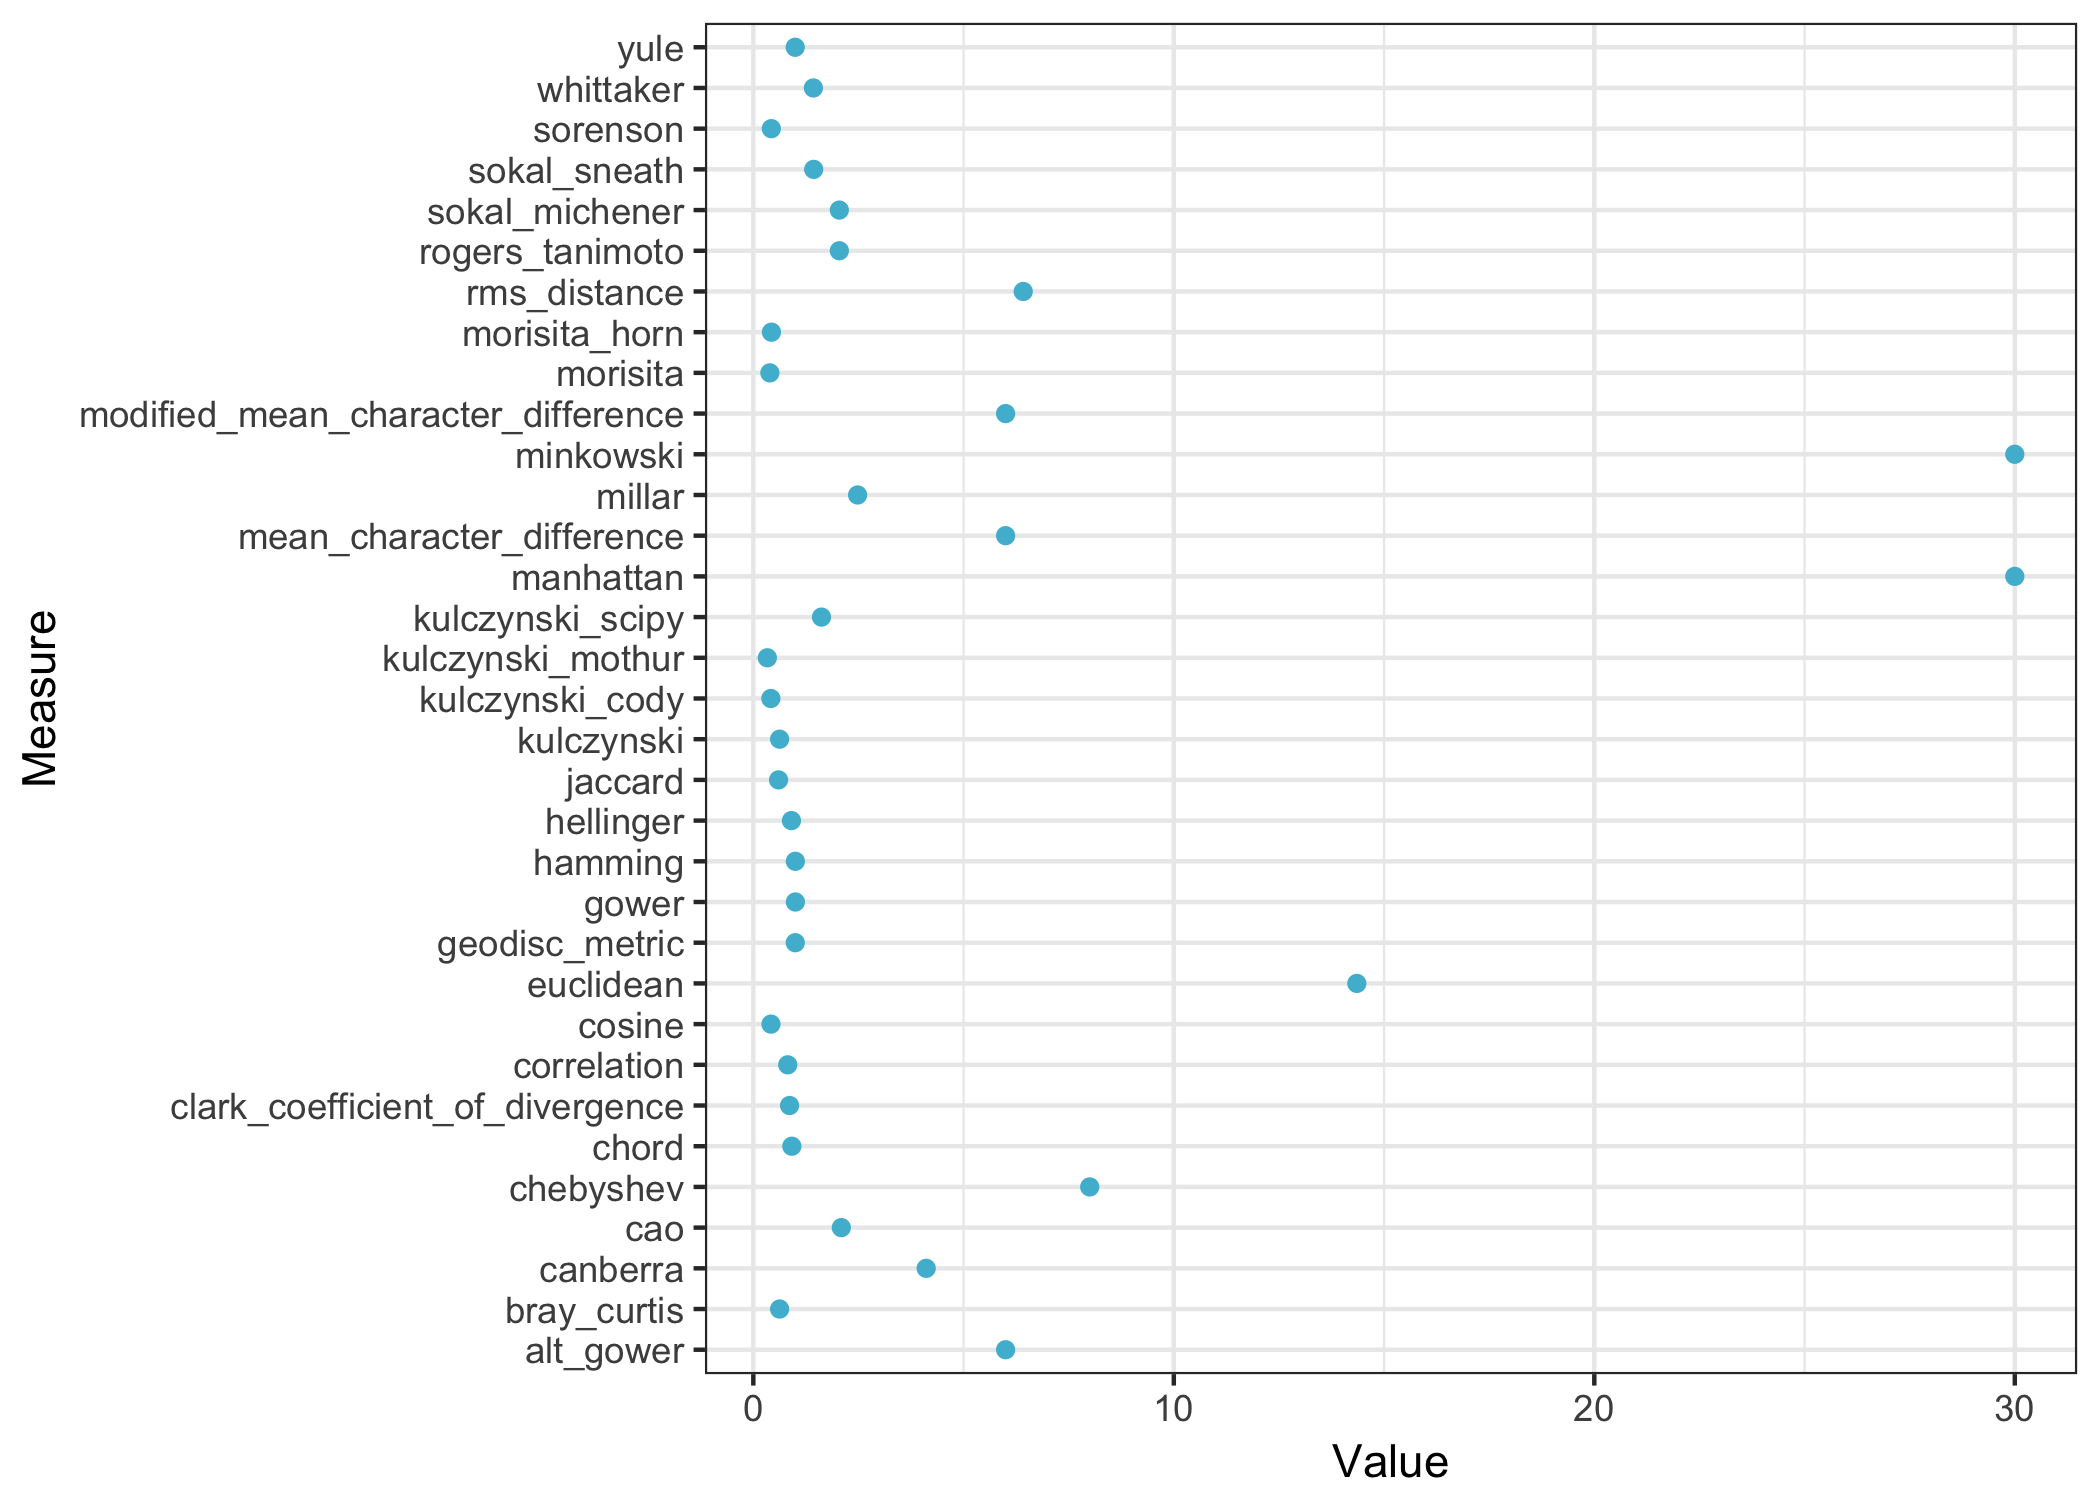
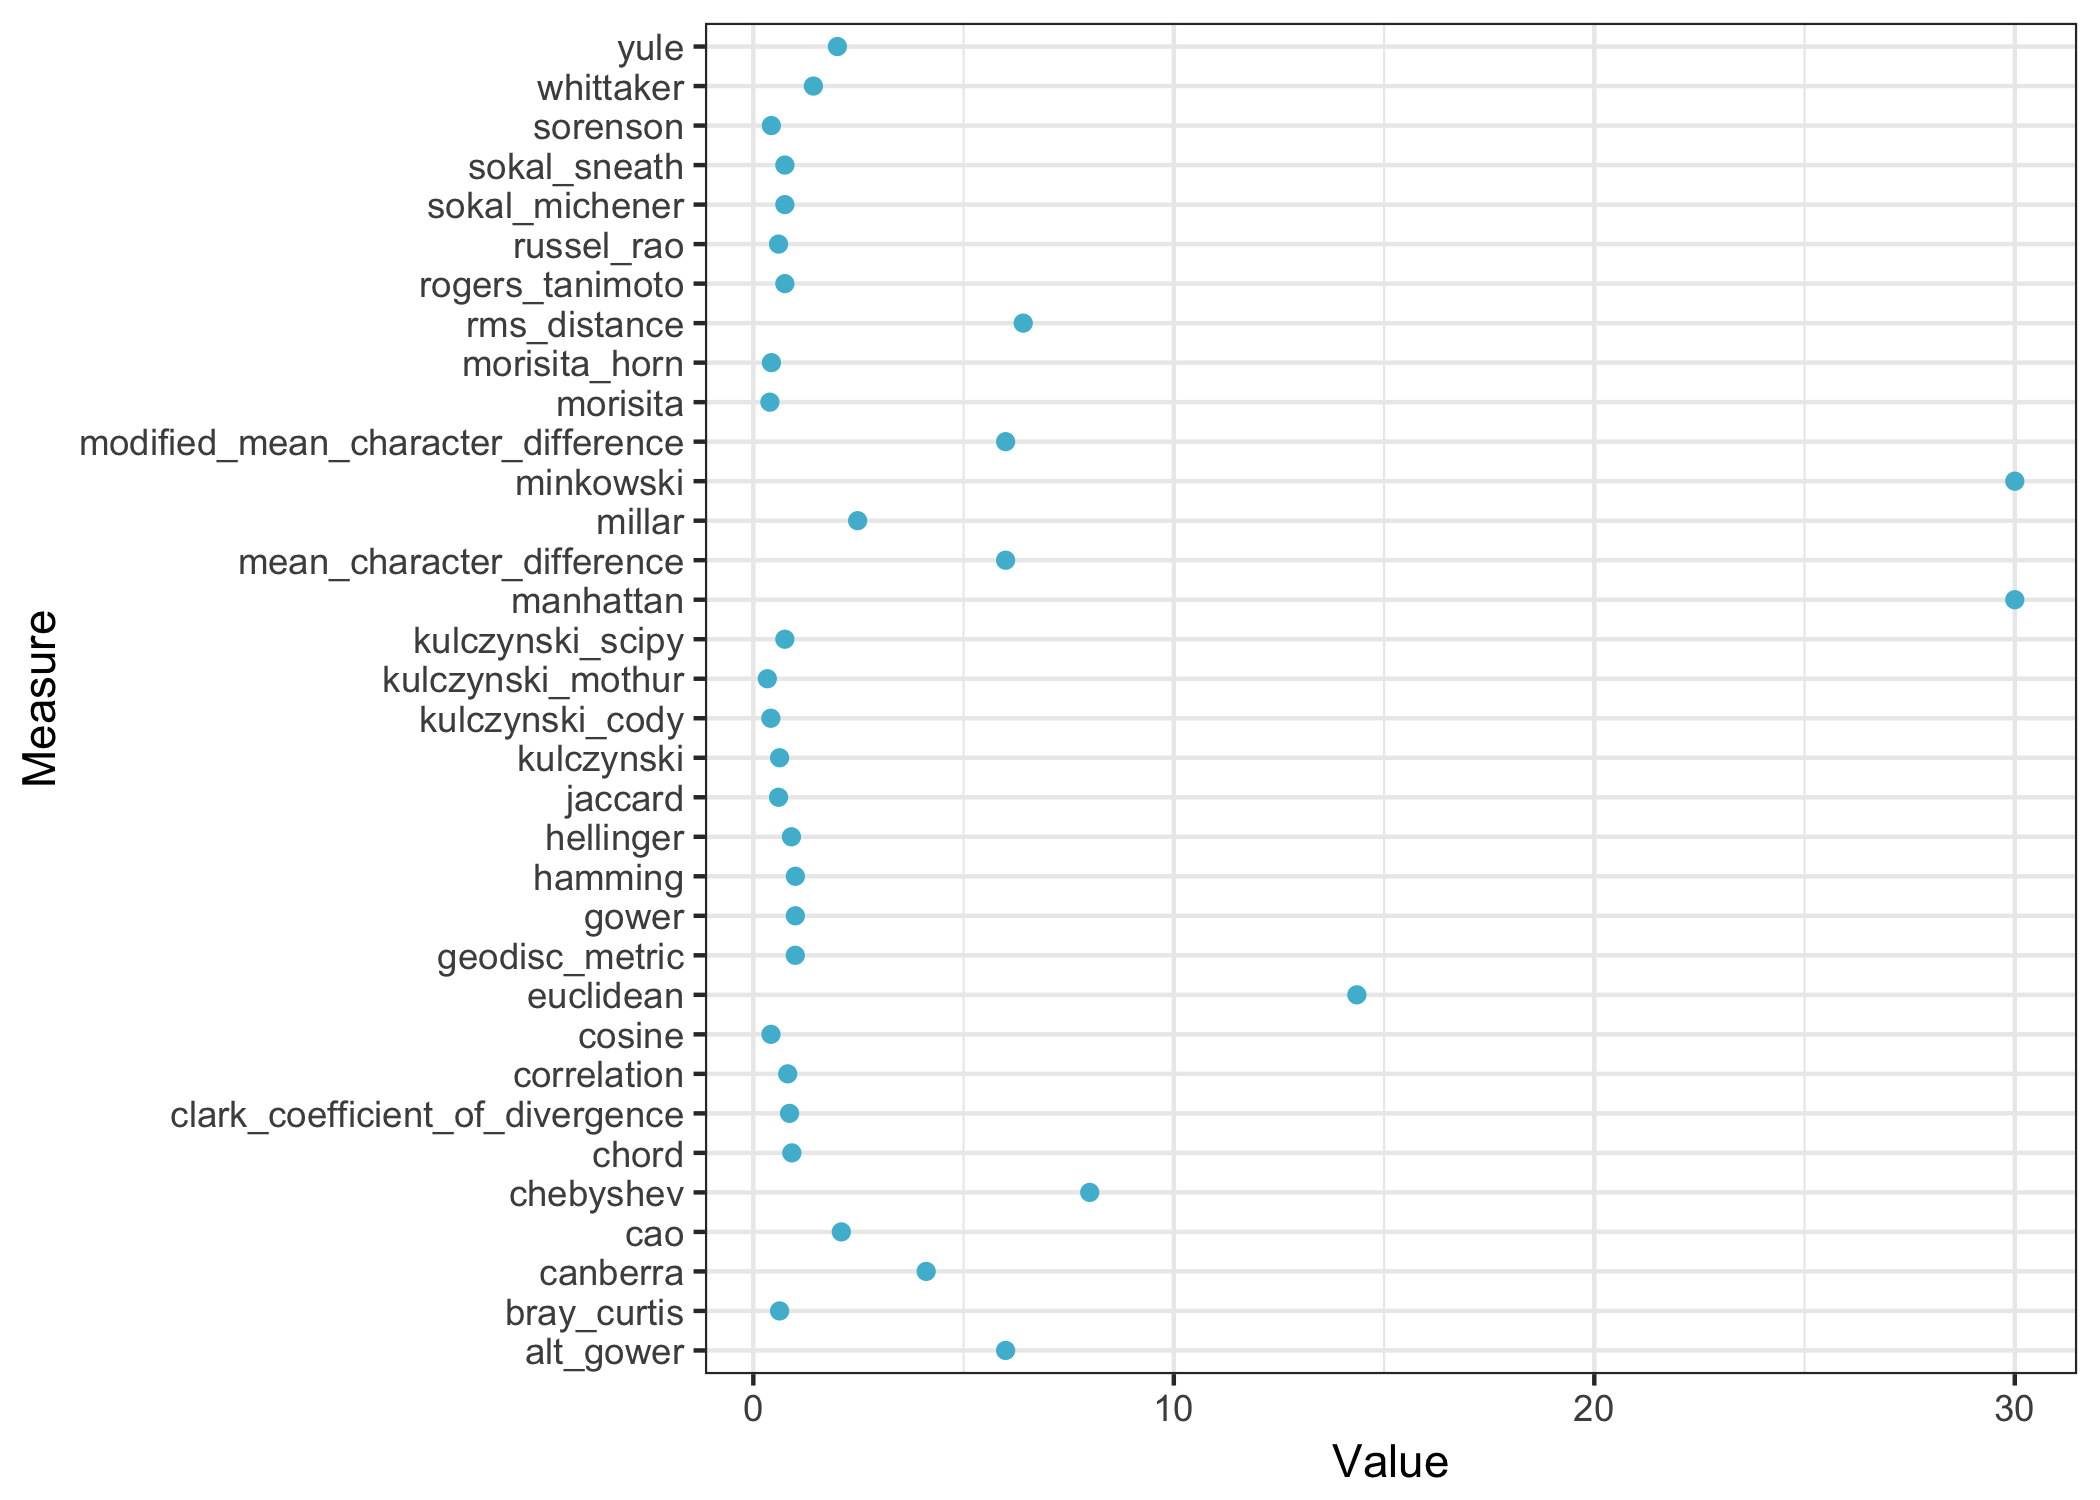
Update README for distances departing from scipy implementation

Changed region(s): [[0.031, 0.0307, 0.9905, 0.92]]

diff --git a/README.md b/README.md
@@ -111,7 +111,6 @@ Again, we'll use a vector called `ecofuncs_beta` to compute every dissimilarity 
 
 ``` r
 data_frame(Measure = ecofuncs_beta) %>%
-  filter(!(Measure %in% "russel_rao")) %>%
   group_by(Measure) %>%
   mutate(Value = get(Measure)(s1, s2)) %>%
   ggplot(aes(x=Measure, y=Value)) +
@@ -122,4 +121,4 @@ data_frame(Measure = ecofuncs_beta) %>%
 
 ![](README-files/README-beta-diversity-1.png)
 
-The dissimilarities are generally positive, and they have a range of scales. Some dissimilarity measures range from 0 to 1, while others can go up indefinitely. The Russel-Rao index is removed, because I implemented it to be equivalent to the index in scipy, and that implementation behaves oddly for vectors that aren't already converted to binary (True/False) values. As it stands, I'm regretting my decision, and will probably change the Russel-Rao distance to something that makes more sense.
+The dissimilarities are generally positive, and they have a range of scales. Some dissimilarity measures range from 0 to 1, while others can go up indefinitely.
